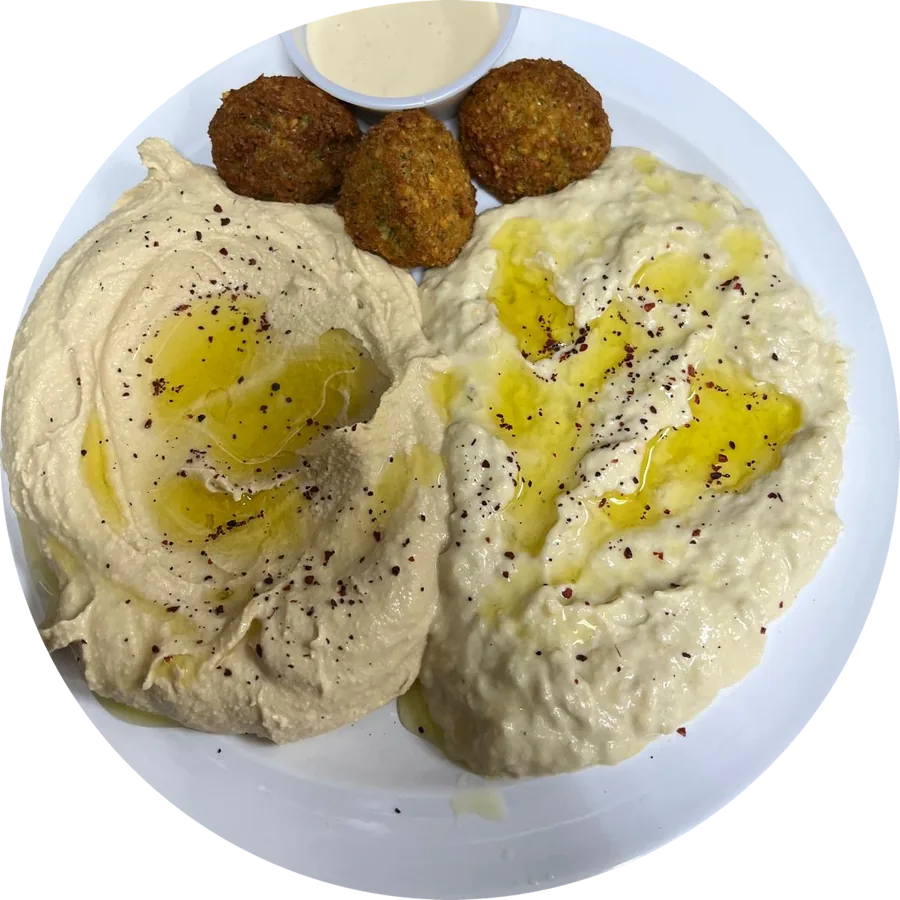
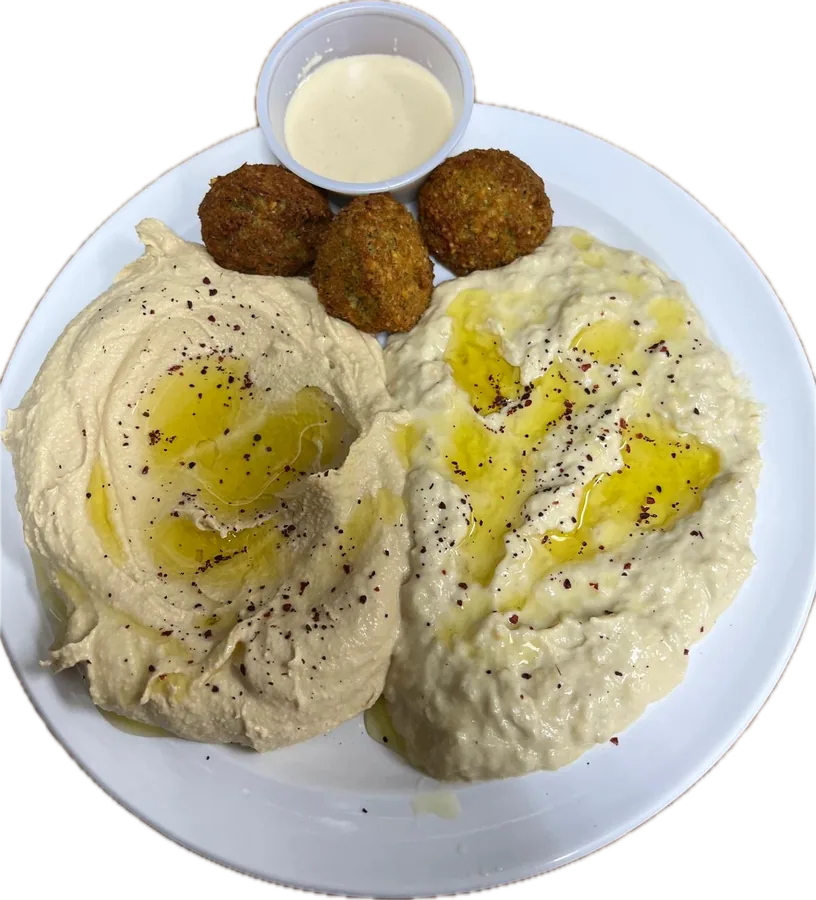
Revert circle-trimmed food photos back to the original cutouts

diff --git a/index.html b/index.html
@@ -75,7 +75,7 @@
           </ul>
         </div>
         <div class="hero-photo">
-          <img src="images/hummus.webp" alt="Hummus topped with olive oil, sumac and chickpeas" width="900" height="900" />
+          <img src="images/hummus.webp" alt="Hummus topped with olive oil, sumac and chickpeas" width="867" height="900" />
         </div>
       </div>
     </section>
@@ -107,32 +107,32 @@
         </div>
         <div class="dish-grid">
           <article class="dish">
-            <div class="dish-photo"><img src="images/appetizer-combo.webp" alt="Plate of hummus, baba ghanouj and three falafel with tahini" width="900" height="900" loading="lazy" /></div>
+            <div class="dish-photo"><img src="images/appetizer-combo.webp" alt="Plate of hummus, baba ghanouj and three falafel with tahini" width="816" height="900" loading="lazy" /></div>
             <div class="dish-row"><h3>Appetizer combination plate</h3><span class="price">$10.49</span></div>
             <p>Hummus, baba ghanouj and falafel, served with pita bread.</p>
           </article>
           <article class="dish">
-            <div class="dish-photo"><img src="images/hummus-kofta.webp" alt="Hummus topped with seasoned ground beef, tahini and pickles" width="900" height="900" loading="lazy" /></div>
+            <div class="dish-photo"><img src="images/hummus-kofta.webp" alt="Hummus topped with seasoned ground beef, tahini and pickles" width="808" height="900" loading="lazy" /></div>
             <div class="dish-row"><h3>Hummus with kofta</h3><span class="price">$12.99</span></div>
             <p>Hummus topped with seasoned ground beef, served with pita bread, sauce and pickles.</p>
           </article>
           <article class="dish">
-            <div class="dish-photo"><img src="images/falafel.webp" alt="Crispy falafel with a cup of tahini sauce" width="900" height="900" loading="lazy" /></div>
+            <div class="dish-photo"><img src="images/falafel.webp" alt="Crispy falafel with a cup of tahini sauce" width="596" height="900" loading="lazy" /></div>
             <div class="dish-row"><h3>Falafel</h3><span class="price">$2.75</span></div>
             <p>Three pieces, made from garbanzo beans mixed with vegetables and spices.</p>
           </article>
           <article class="dish">
-            <div class="dish-photo"><img src="images/hummus.webp" alt="Hummus with olive oil, sumac and chickpeas" width="900" height="900" loading="lazy" /></div>
+            <div class="dish-photo"><img src="images/hummus.webp" alt="Hummus with olive oil, sumac and chickpeas" width="867" height="900" loading="lazy" /></div>
             <div class="dish-row"><h3>Hummus</h3><span class="price">$6.49</span></div>
             <p>Served with pita bread.</p>
           </article>
           <article class="dish">
-            <div class="dish-photo"><img src="images/baba-ghanouj.webp" alt="Baba ghanouj with olive oil and sumac" width="900" height="900" loading="lazy" /></div>
+            <div class="dish-photo"><img src="images/baba-ghanouj.webp" alt="Baba ghanouj with olive oil and sumac" width="900" height="731" loading="lazy" /></div>
             <div class="dish-row"><h3>Baba ghanouj</h3><span class="price">$6.99</span></div>
             <p>Eggplant and tahini sauce, served with pita bread.</p>
           </article>
           <article class="dish">
-            <div class="dish-photo"><img src="images/lentil-soup.webp" alt="Bowl of lentil soup topped with sumac" width="900" height="900" loading="lazy" /></div>
+            <div class="dish-photo"><img src="images/lentil-soup.webp" alt="Bowl of lentil soup topped with sumac" width="758" height="900" loading="lazy" /></div>
             <div class="dish-row"><h3>Lentil soup</h3><span class="price">$3.75</span></div>
             <p>Served with pita bread.</p>
           </article>
